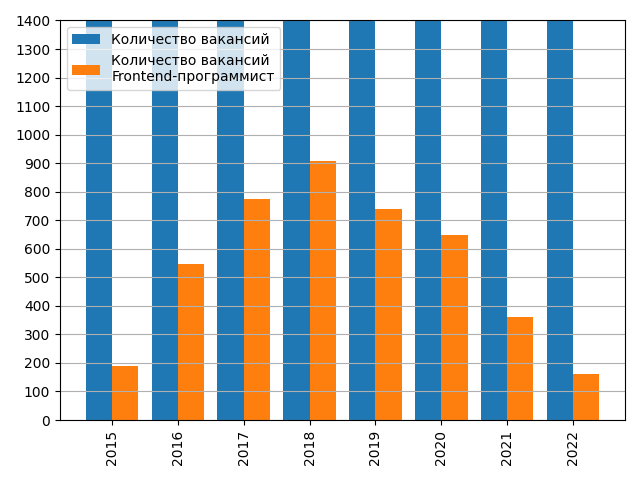
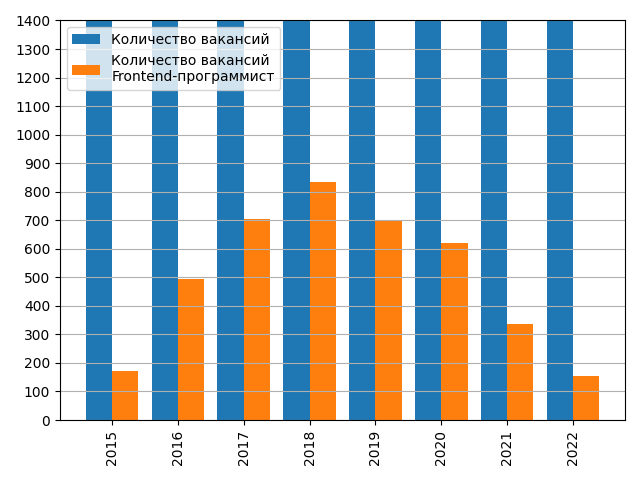
create charts and skills

diff --git a/charts.py b/charts.py
@@ -116,6 +116,7 @@ class InputConnect:
                 if vacancyName in vac.name:
                     vacSalaryLevelYear[year].append(vac.salary.getSalaryRu())
                     vacCountsYear[year] += 1
+                    break
         salaryLevelYear = {key: int(sum(value)/ len(value)) if len(value) != 0 else 0 for key, value in salaryLevelYear.items()}
         vacSalaryLevelYear = {key: int(sum(value)/ len(value)) if len(value) != 0 else 0 for key, value in vacSalaryLevelYear.items()}
         areaNameDic = {}
@@ -198,8 +199,8 @@ class Report:
         #         fontweight='bold', xytext=(0, 15), textcoords='offset points')
         # ax.figure.savefig('graphVacCountsYearTest.png')
         # x1 = np.arange(len(list(columnsData[0].keys())))
-        # width = 0.4
-        fig, ax3 = plt.subplots()
+        width = 0.4
+        fig, ax2 = plt.subplots()
         # figsize=(12, 6)
         # ax1.bar(x1 - width, list(columnsData[0].values()), width, label='средняя з/п')
         # ax1.bar(x1, list(columnsData[2].values()), width, label='з/п ' + 'Frontend-программист')
@@ -208,29 +209,29 @@ class Report:
         # ax1.yaxis.set_major_locator(y_major_locator)
         # ax1.set_xticks(x1 - 0.2, list(columnsData[0].keys()), rotation=90)
         # ax1.legend(loc='upper left', prop={'size': 10})
-        # x2 = np.arange(len(list(columnsData[0].keys())))
-        # ax2.grid(axis='y')
-        # y_major_locator = mtick.MultipleLocator(100)
-        # plt.ylim(0, 1400)
-        # ax2.yaxis.set_major_locator(y_major_locator)
-        # ax2.bar(x2 - width, list(columnsData[1].values()), width, label='Количество вакансий')
-        # ax2.bar(x2, list(columnsData[3].values()), width, label='Количество вакансий\n' + 'Frontend-программист')
-        # ax2.set_xticks(x2 - 0.2, list(columnsData[0].keys()), rotation=90)
-        # ax2.legend(loc='upper left', prop={'size': 10})
-        ax3.barh(list([str(city).replace(' ', '\n').replace('-', '-\n') for city in
-                        list(reversed(list(columnsData[4].keys())))]),
-                    list(reversed(list(columnsData[4].values()))), color='blue', height=0.5, align='center')
-        ax3.yaxis.set_tick_params(labelsize=10)
-        ax3.xaxis.set_tick_params(labelsize=10)
-        ax3.grid(axis='x')
-        x_major_locator = mtick.MultipleLocator(20000)
-        ax3.xaxis.set_major_locator(x_major_locator)
+        x2 = np.arange(len(list(columnsData[0].keys())))
+        ax2.grid(axis='y')
+        y_major_locator = mtick.MultipleLocator(100)
+        plt.ylim(0, 1400)
+        ax2.yaxis.set_major_locator(y_major_locator)
+        ax2.bar(x2 - width, list(columnsData[1].values()), width, label='Количество вакансий')
+        ax2.bar(x2, list(columnsData[3].values()), width, label='Количество вакансий\n' + 'Frontend-программист')
+        ax2.set_xticks(x2 - 0.2, list(columnsData[0].keys()), rotation=90)
+        ax2.legend(loc='upper left', prop={'size': 10})
+        # ax3.barh(list([str(city).replace(' ', '\n').replace('-', '-\n') for city in
+        #                 list(reversed(list(columnsData[4].keys())))]),
+        #             list(reversed(list(columnsData[4].values()))), color='blue', height=0.5, align='center')
+        # ax3.yaxis.set_tick_params(labelsize=10)
+        # ax3.xaxis.set_tick_params(labelsize=10)
+        # ax3.grid(axis='x')
+        # x_major_locator = mtick.MultipleLocator(20000)
+        # ax3.xaxis.set_major_locator(x_major_locator)
         # colors = ('blue', 'purple', 'green', 'skyblue', 'orange', 'red', 'peru', 'olive', 'gold', 'yellowgreen', 'teal')
         # other = 1 - sum([rate for rate in columnsData[5].values()])
         # ax4.pie(list(columnsData[5].values()) + [other], labels=list(columnsData[5].keys()) + ['Другие'],
         #         textprops={'fontsize': 10}, colors=colors)
         fig.tight_layout()
-        fig.savefig('graphSalaryCities.png')
+        fig.savefig('graphVacCountsYear.png')
 
 rep = Report()
 #rep.generate_excel(rep.columnsData)

diff --git a/skills.py b/skills.py
@@ -61,18 +61,28 @@ class InputConnect:
         return years
     @staticmethod
     def printing_statistical_data(vacList):
-        vacancyNames = ['Frontend-программист', 'frontend', 'фронтенд', 'вёрстка', 'верстка', 'верста', 'front end', 'angular', 'html', 'css', 'react', 'vue']
+        vacancyNames = ['Frontend-программист', 'frontend', 'фронтенд', 'вёрстка', 'верстка', 'верста', 'front end', 'angular', 'html', 'css', 'react', 'vue', 'Frontend']
         years = set()
         years = InputConnect.create_years(vacList, years)
         skillsYear = {year: [] for year in years}
         for vacancy in vacList:
             year = int(InputConnect.convert_data(vacancy))
-            if (vacancy.name in vacancyNames):
-                for skill in vacancy.key_skills:
-                    skillsYear[year].append(skill)
+            for vacName in vacancyNames:
+                if (vacName in vacancy.name):
+                    for skill in vacancy.key_skills:
+                        skillsYear[year].append(skill)
+                    break
         print('Навыки по годам:', skillsYear)
-        c = Counter(skillsYear[2018])
-        print(c.most_common(10))
+        for year in skillsYear.keys():
+            c = Counter(skillsYear[year])
+            print(year, c.most_common(10))
+        skillsAllYears = {}
+        for year, value in skillsYear.items():
+            for skill in skillsYear[year]:
+                if skill not in skillsAllYears.keys():
+                    skillsAllYears[skill] = 1
+                else:
+                    skillsAllYears[skill] += 1
         return skillsYear
 pars = InputConnect()
 if pars.param is not None:

diff --git a/statistic.py b/statistic.py
@@ -109,6 +109,7 @@ class InputConnect:
                 if vacancyName in vac.name:
                     vacSalaryLevelYear[year].append(vac.salary.getSalaryRu())
                     vacCountsYear[year] += 1
+                    break
         salaryLevelYear = {key: int(sum(value)/ len(value)) if len(value) != 0 else 0 for key, value in salaryLevelYear.items()}
         vacSalaryLevelYear = {key: int(sum(value)/ len(value)) if len(value) != 0 else 0 for key, value in vacSalaryLevelYear.items()}
         areaNameDic = {}
